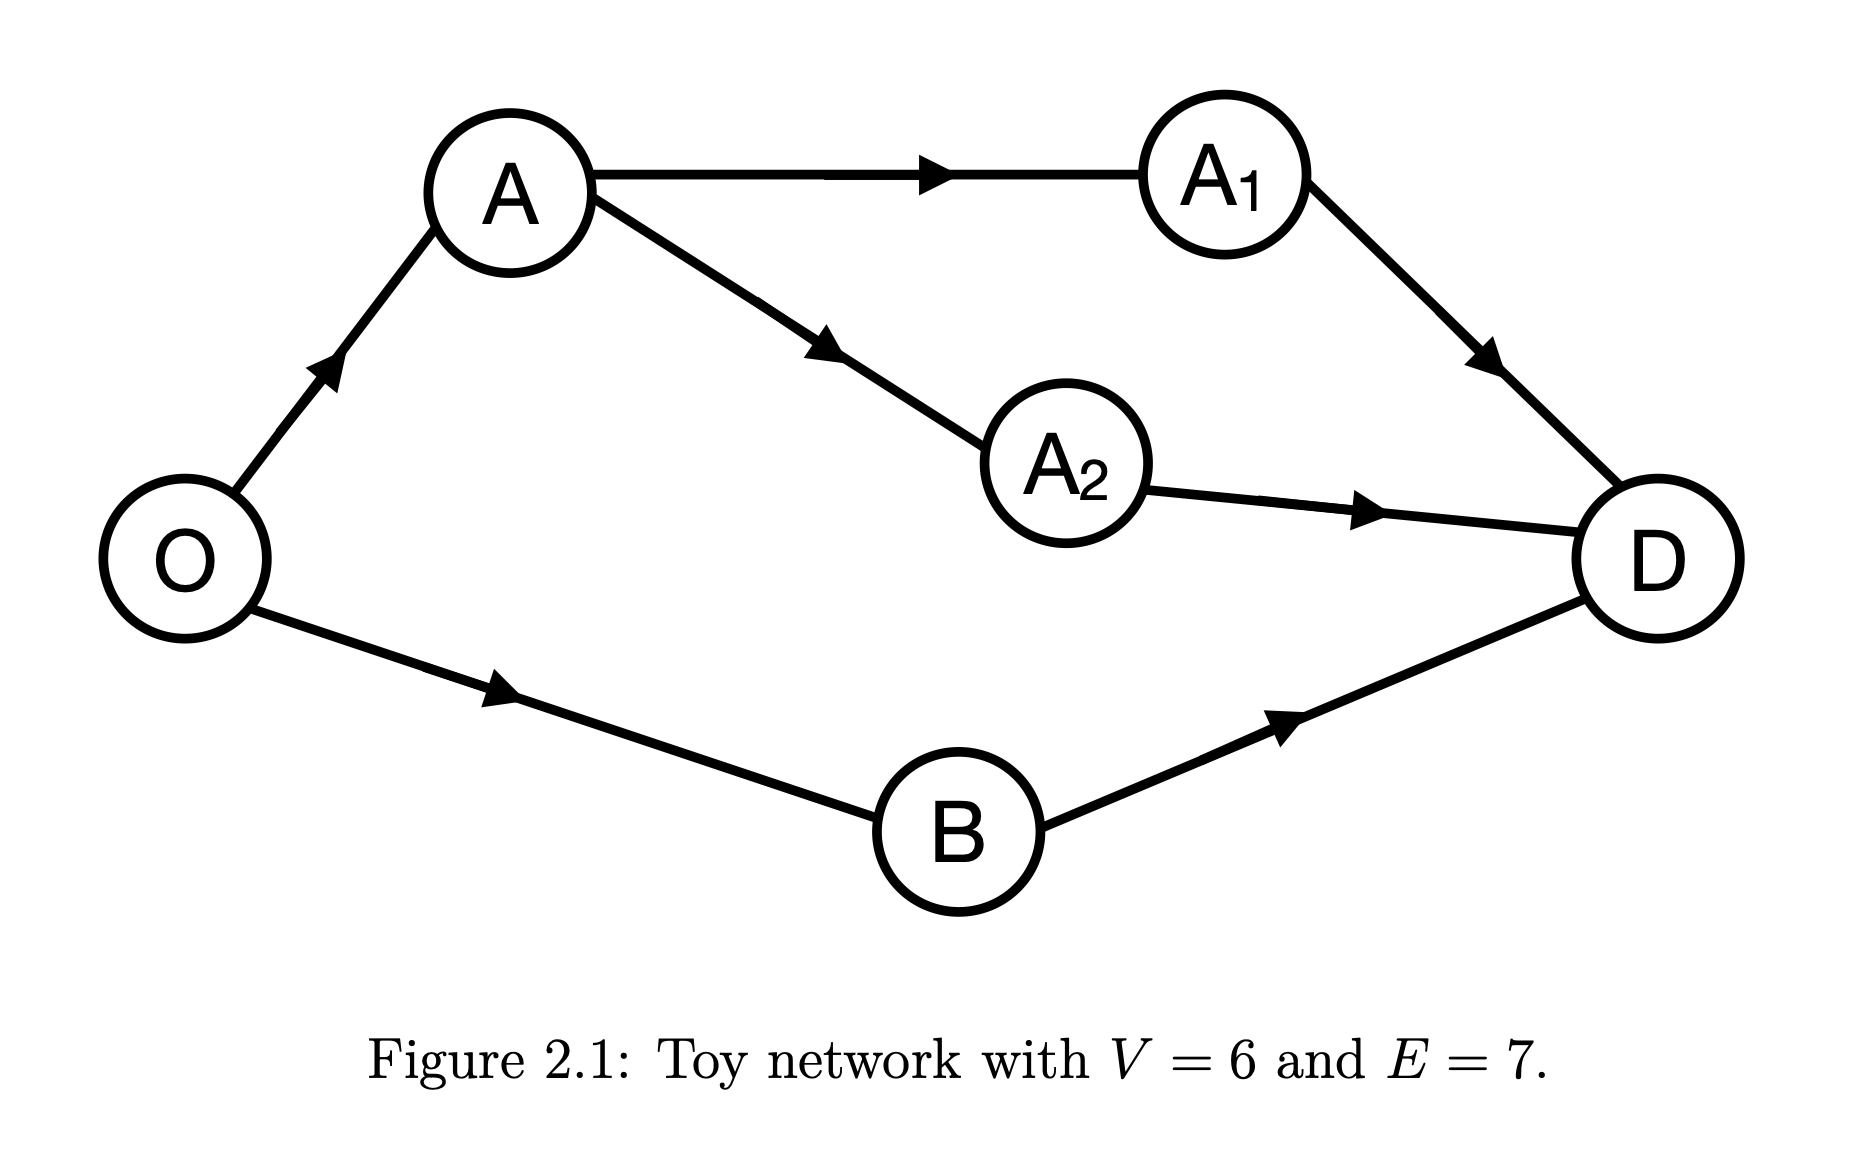
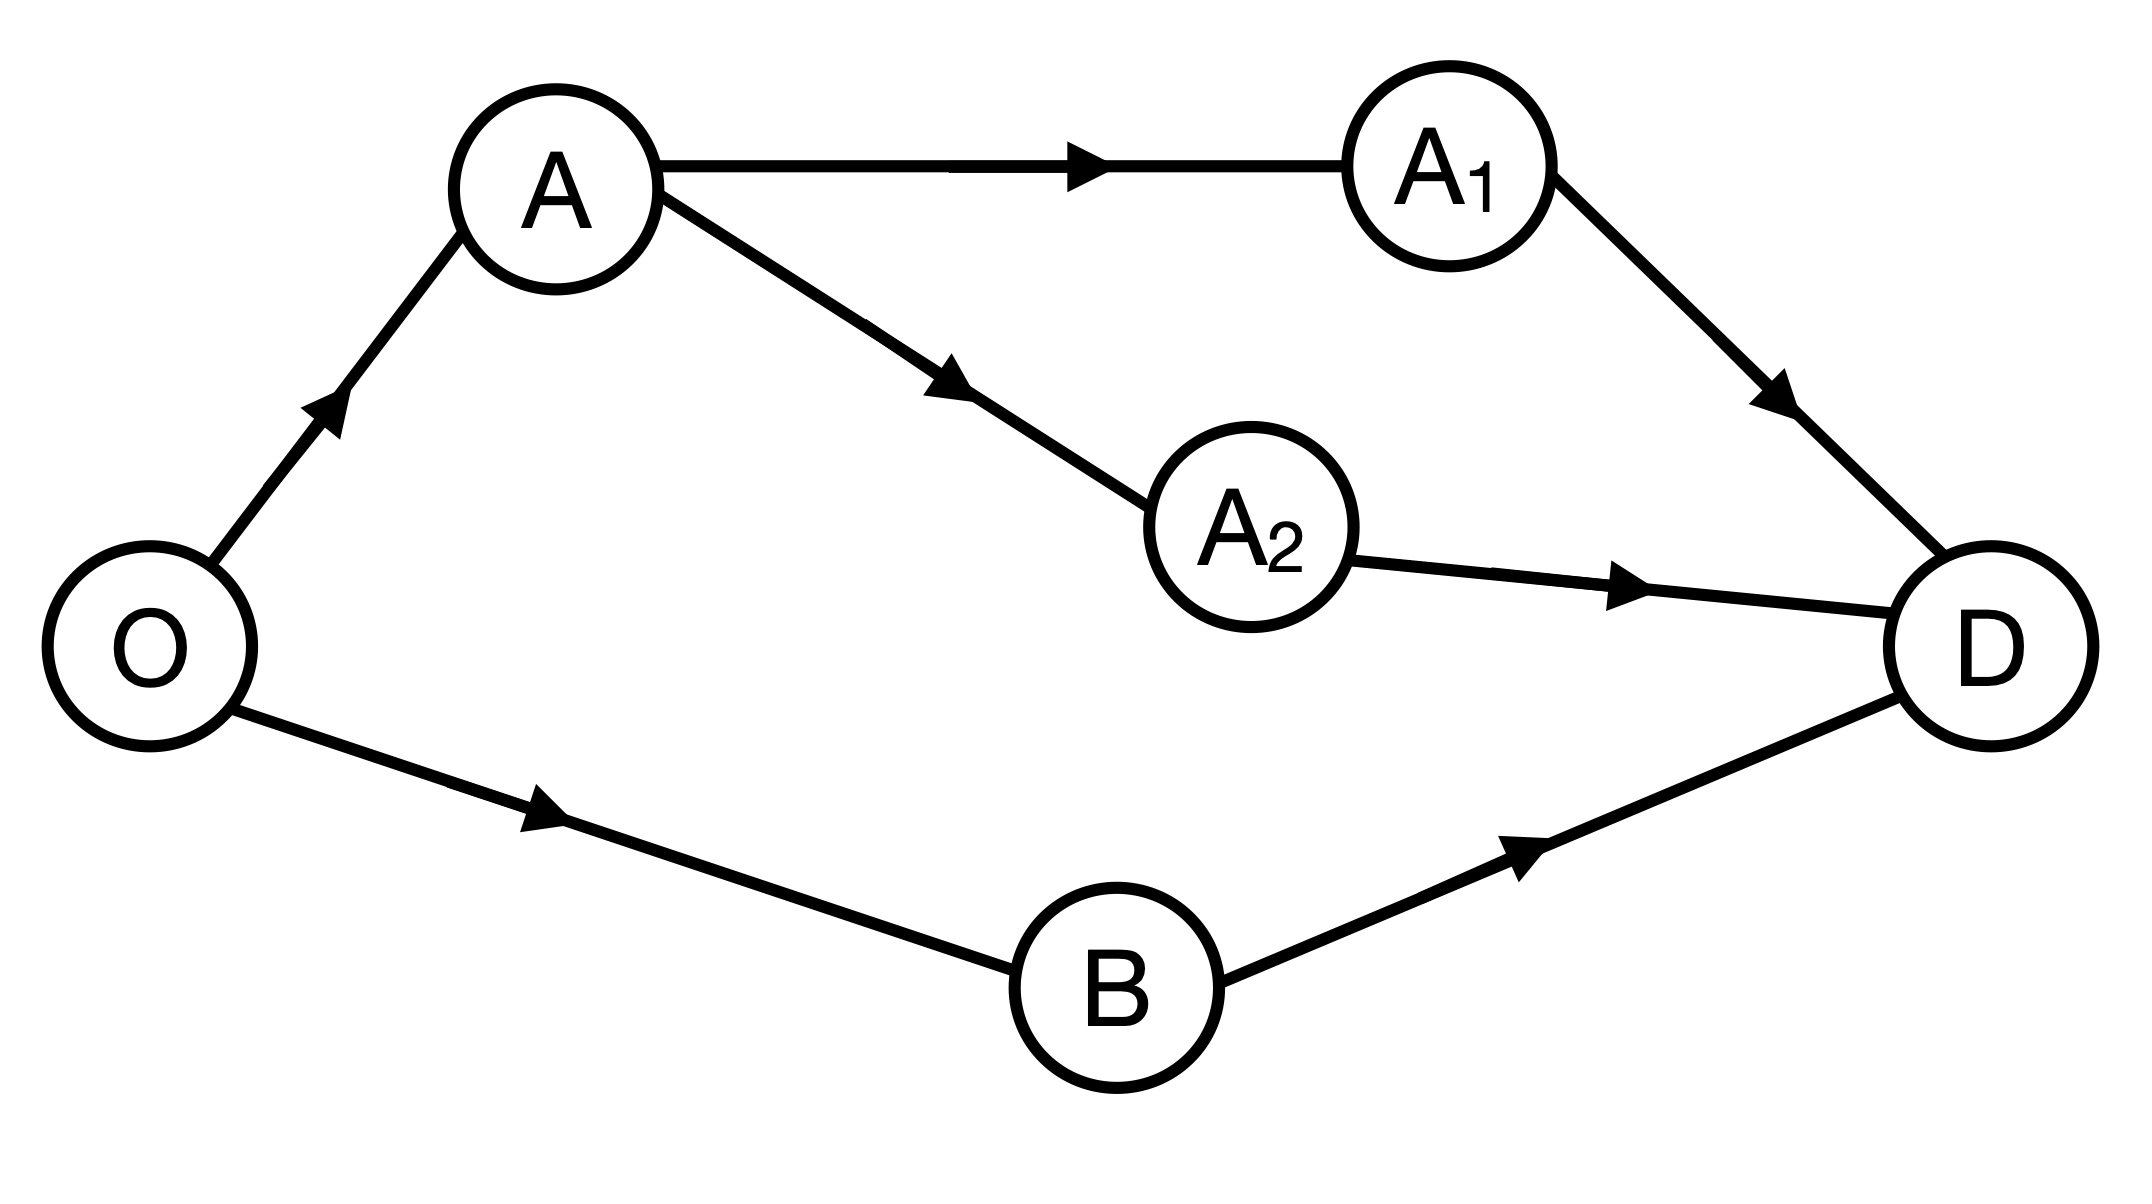
update network reliability detail page: layout, captions, figures

diff --git a/project_related_files/network_reliability.html b/project_related_files/network_reliability.html
@@ -10,7 +10,7 @@
     <title>Network Reliability · Madhurima Nath</title>
     <link rel="icon" type="image/png" href="../tools/favicon-32.png?v=1">
     <link rel="icon" type="image/svg+xml" href="../tools/favicon.svg?v=3">
-    <link rel="stylesheet" href="../style.css?v=42">
+    <link rel="stylesheet" href="../style.css?v=43">
     <script>MathJax = { tex: { inlineMath: [['\\(','\\)']] } };</script>
     <script src="https://cdn.jsdelivr.net/npm/mathjax@3/es5/tex-chtml.js" async></script>
 </head>
@@ -44,41 +44,54 @@
         <!-- Section 1: Computational Frameworks -->
         <section class="proj-section" id="computational">
             <h3>Computational Frameworks for Network Reliability</h3>
-            <div class="theme-content">
-                <div class="theme-text">
-                    <p class="proj-text">A graph dynamical system (GDS) \(\mathcal{G}\) consists of a finite graph with a vertex set \(V\) and an edge set \(E\), together with a vertex function and an update scheme. The vertices represent the components of a system and the edges represent interactions between them. \(\mathcal{G}\) may be directed, weighted, multiplexed, time-dependent, or composed of inhomogeneous nodes. The state of each vertex changes at each time step according to the states of its neighbours. Moore-Shannon network reliability \(R(x;\,\mathcal{G},D,P)\) gives the probability that \(\mathcal{G}\) satisfies a property \(P\) under dynamics \(D\), where \(x\) is the per-edge probability of activation and \(E = |E|\) is the number of edges. If \(P_k\) denotes the fraction of size-\(k\) subgraphs satisfying \(P\), then the probability of selecting a particular subgraph of size \(k\) from all \(E\) edges and having it satisfy \(P\) is \(P_k x^k(1-x)^{E-k}\), and summing over all subgraph sizes gives</p>
 
-                    \[R(x;\,\mathcal{G},D,P) \;=\; \sum_{k=0}^{E} P_k \binom{E}{k} x^k(1-x)^{E-k}.\]
+            <p class="proj-text">A graph dynamical system (GDS) \(\mathcal{G}\) consists of a finite graph with vertex set \(V\) and \(E\) edges, together with a vertex function and an update scheme. The vertices represent the components of a system and the edges represent interactions between them. \(\mathcal{G}\) may be directed, weighted, multiplexed, time-dependent, or composed of inhomogeneous nodes. The state of each vertex changes at each time step according to the states of its neighbours. Moore-Shannon network reliability \(R(x;\,\mathcal{G},D,P)\) gives the probability that \(\mathcal{G}\) satisfies a property \(P\) under dynamics \(D\), where \(x\) is the per-edge probability of activation. If \(P_k\) denotes the fraction of size-\(k\) subgraphs satisfying \(P\), then the probability of selecting a particular subgraph of size \(k\) from all \(E\) edges and having it satisfy \(P\) is \(P_k x^k(1-x)^{E-k}\), and summing over all subgraph sizes gives</p>
 
-                    <p class="proj-text">Evaluating this sum exactly is \(\#P\)-hard in general. \(R\) is a monotonically non-decreasing polynomial of degree \(E\) with \(R(0) = 0\) and \(R(1) = 1\). These properties — monotonicity and the boundary conditions — allow it to be written in the Bernstein basis.</p>
+            \[R(x;\,\mathcal{G},D,P) \;=\; \sum_{k=0}^{E} P_k \binom{E}{k} x^k(1-x)^{E-k}.\]
 
-                    <div class="eq-block">
-                        <p>Any degree-\(E\) polynomial can be written in the Bernstein basis with control points \(\{(k/E,\,\beta_k)\}\):</p>
-                        \[R(x) \;=\; \sum_{k=0}^{E} \beta_k\, B(E,k,x), \qquad B(E,k,x) = \binom{E}{k} x^k(1-x)^{E-k}.\]
-                        <p>The Bernstein coefficients \(\beta_k\) are obtained from the Taylor coefficients \(\alpha_l\) of the expansion around \(x=0\) via</p>
-                        \[\beta_k \;=\; \sum_{l=0}^{k} \alpha_l \binom{E-l}{E-k} \Bigg/ \binom{E}{k}.\]
-                        <p>An analogous transformation applies to the expansion around \(x = 1\). The two Taylor series are combined in the Bernstein basis, which is evaluated stably using de Casteljau's algorithm. As more Taylor coefficients become known, the approximation converges to the exact polynomial.</p>
-                    </div>
+            <p class="proj-text">Evaluating this sum exactly is \(\#P\)-hard in general. \(R\) is a monotonically non-decreasing polynomial of degree \(E\) with \(R(0) = 0\) and \(R(1) = 1\). These properties — monotonicity and the boundary conditions — allow it to be written in the Bernstein basis:</p>
 
-                    <p class="proj-text">For a large class of problems, \(R(x;\,\mathcal{G},D,P)\) can be constructed from the probabilities of certain subgraphs called <em>cruxes</em>. A <em>strut</em> is a subgraph \(g\) of \(\mathcal{G}\) for which \(R(g) > 0\); a <em>cut</em> is a subgraph for which \(R(\mathcal{G} \setminus g) = 0\). A minimal strut (resp. cut) is a strut (resp. cut) with no proper sub-strut (resp. sub-cut). Collectively, minimal struts and cuts are called cruxes. The Taylor series around \(x = 0\) is built from minimal struts; the series around \(x = 1\) from minimal cuts. When cruxes are not known analytically, Monte Carlo sampling identifies them. Two parameters control approximation quality: \(S\) (Monte Carlo samples) and \(D\) (expansion depth). The resulting bounds are provably tight and narrow as \(S\) and \(D\) increase.</p>
+            \[R(x) \;=\; \sum_{k=0}^{E} \beta_k\, B(E,k,x), \qquad B(E,k,x) = \binom{E}{k} x^k(1-x)^{E-k}.\]
 
-                    <p class="proj-text">The figures alongside show a small example graph where \(R(x)\) is known exactly. The dashed red curve is the Bernstein interpolation using Taylor coefficients from both ends — (a) using the first three coefficients from each end and (b) using the first four. In both cases the Bernstein estimate is closer to the exact polynomial than either Taylor series alone.</p>
+            <p class="proj-text">The Bernstein coefficients \(\beta_k\) are obtained from the Taylor coefficients \(\alpha_l\) of the expansion around \(x=0\) via</p>
 
-                    <p class="proj-text">On the Zachary Karate Club network — a social network with 34 vertices and 78 edges — adding a single Bernstein coefficient at \(k = (k_{\min} + k_{\max})/2 = k_{\min} + 9\) to the boundary-only estimate already improves it substantially. Measuring 7 additional \(\beta_k\) values — rather than all 17 unknown ones — gives a good estimate of \(R(x)\), as long as the right 7 values are chosen.</p>
+            \[\beta_k \;=\; \sum_{l=0}^{k} \alpha_l \binom{E-l}{E-k} \Bigg/ \binom{E}{k}.\]
 
-                    <p class="proj-text">Moore-Shannon network reliability is a global statistic which depends on both the dynamics and the structure of a GDS, and is a degree \(N\) polynomial where \(N\) is the system size. The Bernstein basis is a natural basis for the reliability polynomials and is more useful and superior to Taylor expansions for estimating such high-degree polynomials. The Bernstein coefficients \(\beta_k\) can either be evaluated by a simple transformation from the Taylor coefficients or estimated using Monte Carlo simulations. The Bernstein polynomials are not only excellent estimators but also provide tight, provable bounds, and the coefficients are related to the dynamics of the network.</p>
-                </div>
-                <div class="theme-figure">
-                    <img src="../related_files/toy_network.png" alt="Toy network with 6 vertices and 7 edges used to illustrate network reliability" style="cursor:zoom-in;">
-                    <figcaption>Toy network with \(V = 6\) and \(E = 7\).</figcaption>
-                    <img src="../related_files/bernstein_a.png" alt="Estimated R(x) using first three Taylor coefficients from both x=0 and x=1 ends, showing Bernstein interpolation (dashed red) against exact polynomial (black) and Taylor bounds" style="margin-top: 18px; cursor:zoom-in;">
-                    <figcaption>(a) Three Taylor coefficients from each end.</figcaption>
-                    <img src="../related_files/bernstein_b.png" alt="Estimated R(x) using first four Taylor coefficients from both x=0 and x=1 ends, showing closer Bernstein interpolation (dashed red) to the exact polynomial (black)" style="margin-top: 18px; cursor:zoom-in;">
-                    <figcaption>(b) Four Taylor coefficients from each end.</figcaption>
-                    <img src="../related_files/bernstein_karate.png" alt="Plots of beta_k and R(x) as a function of x for the Karate Club network, showing the exact R(x) (black), estimated R(x) (red dashed), and the improvement from adding one additional Bernstein coefficient at the midpoint" style="margin-top: 18px; cursor:zoom-in;">
-                    <figcaption>Plots of \(\beta_k\) and \(R(x)\) as a function of \(x\). The black solid line is the exact \(R(x)\). The red curve is estimated \(R(x)\) using just 1 additional \((k,\beta_k)\) at \(k = (k_{\min}+k_{\max})/2 = k_{\min}+9\).</figcaption>
-                </div>
+            <p class="proj-text">An analogous transformation applies around \(x = 1\). The strut/cut duality is built into the Bernstein basis through</p>
+
+            \[B(E,k,x) \;=\; B(E,\,E-k,\,1-x),\]
+
+            <p class="proj-text">which means the coefficients from the \(x = 0\) expansion are exactly the reverse of those from \(x = 1\). The two Taylor series are combined in the Bernstein basis and evaluated stably using de Casteljau's algorithm. As more coefficients become known, the approximation converges to the exact polynomial.</p>
+
+            <p class="proj-text">The reliability polynomial can often be built from the probabilities of two special types of subgraphs. A <em>strut</em> is a subgraph for which the property \(P\) holds; a <em>cut</em> is a subgraph whose removal makes \(P\) impossible. The smallest struts and cuts — those with no redundant edges — are called <em>cruxes</em>. Expanding \(R(x)\) around \(x = 0\) uses struts; expanding around \(x = 1\) uses cuts. When cruxes are not known analytically, Monte Carlo sampling identifies them, and the resulting bounds are provably tight.</p>
+
+            <figure style="margin:20px auto; max-width:480px; text-align:center;">
+                <img src="../related_files/toy_network.png" alt="Toy network with 6 vertices and 7 edges used to illustrate network reliability" style="width:100%; border-radius:6px; cursor:zoom-in;" class="inline-zoomable">
+                <figcaption>Toy network with \(V = 6\) and \(E = 7\).</figcaption>
+            </figure>
+
+            <p class="proj-text">The figures below show \(R(x)\) for the toy network above, where the exact polynomial is known. The dashed red curve is the Bernstein estimate using Taylor coefficients from both ends — (a) three coefficients from each boundary, (b) four. In both cases the Bernstein estimate is closer to the exact polynomial than either Taylor series alone.</p>
+
+            <div style="display:flex; gap:12px; margin:16px 0 4px; align-items:stretch;">
+                <figure style="flex:1; margin:0; display:flex; flex-direction:column;">
+                    <img src="../related_files/bernstein_a.png" alt="Bernstein estimate of R(x) using three Taylor coefficients from each boundary" style="width:100%; border-radius:6px; cursor:zoom-in; flex:1; object-fit:contain;" class="inline-zoomable">
+                    <figcaption>(a) Three coefficients from each boundary.</figcaption>
+                </figure>
+                <figure style="flex:1; margin:0; display:flex; flex-direction:column;">
+                    <img src="../related_files/bernstein_b.png" alt="Bernstein estimate of R(x) using four Taylor coefficients from each boundary" style="width:100%; border-radius:6px; cursor:zoom-in; flex:1; object-fit:contain;" class="inline-zoomable">
+                    <figcaption>(b) Four coefficients from each boundary.</figcaption>
+                </figure>
             </div>
+
+            <p class="proj-text">On the Zachary Karate Club network — 34 vertices, 78 edges — adding a single additional \(\beta_k\) at the midpoint already improves the boundary-only estimate substantially. Measuring 7 additional \(\beta_k\) values — rather than all 17 unknown ones — gives a good estimate of \(R(x)\), as long as the right 7 values are chosen.</p>
+
+            <div style="display:flex; gap:12px; margin:16px 0 4px;">
+                <img src="../related_files/bernstein_karate_1.png" alt="Bernstein bounds and R(x) for the Karate Club network" style="flex:1; width:0; min-width:0; border-radius:6px; cursor:zoom-in;" class="inline-zoomable">
+                <img src="../related_files/bernstein_karate_2.png" alt="Bernstein bounds and R(x) for the Karate Club network after adding one additional pair (k, beta_k)" style="flex:1; width:0; min-width:0; border-radius:6px; cursor:zoom-in;" class="inline-zoomable">
+            </div>
+            <figcaption>Both bounds and \(R(x)\) improve with the knowledge of one additional pair \((k,\beta_k)\).</figcaption>
+
+            <p class="proj-text">Moore-Shannon network reliability is a global statistic which depends on both the dynamics and the structure of a GDS, and is a degree-\(E\) polynomial. The Bernstein basis is a natural basis for the reliability polynomials and is more useful and superior to Taylor expansions for estimating such high-degree polynomials. The Bernstein coefficients \(\beta_k\) can either be evaluated by a simple transformation from the Taylor coefficients or estimated using Monte Carlo simulations. The Bernstein polynomials are not only excellent estimators but also provide tight, provable bounds, and the coefficients are related to the dynamics of the network.</p>
         </section>
 
         <!-- Section 2: Ising Model -->
@@ -98,7 +111,7 @@
 
                     \[\lambda_{1,2} = e^{\beta J}\cosh(\beta\mu B) \pm \bigl\{e^{-2\beta J} + e^{2\beta J}\sinh^2(\beta\mu B)\bigr\}^{1/2}.\]
 
-                    <p class="proj-text">Standard Monte Carlo methods converge poorly near critical points, and existing approaches to the density of states do not extend naturally to systems with an external field. The connection to network reliability comes from reparametrising the Hamiltonian in terms of two integer-valued quantities: \(s\), the number of spin-up sites, and \(f\), the number of frustrated edges (edges between sites with opposite spins). Then \(H_N = Jf - J(N-f) - \mu Bs + \mu B(N-s)\) and the partition function becomes</p>
+                    <p class="proj-text">Existing series expansion and density-of-states methods do not extend naturally to systems with an external field — in the presence of a field, the series requires two expansion parameters instead of one. The connection to network reliability comes from reparametrising the Hamiltonian in terms of two integer-valued quantities: \(s\), the number of spin-up sites, and \(f\), the number of frustrated edges (edges between sites with opposite spins). Then \(H_N = Jf - J(N-f) - \mu Bs + \mu B(N-s)\) and the partition function becomes</p>
 
                     \[Z_N^{\mathrm{rel}} = \sum_{s,f} n_N(s,f)\exp\bigl[-\beta\{Jf - J(N-f) - \mu Bs + \mu B(N-s)\}\bigr],\]
 
@@ -108,7 +121,7 @@
 
                     \[Z_N^{\mathrm{rel}} = x^{-\eta}\sum_{k=0}^{M}\beta_k\,B(M,k,x),\]
 
-                    <p class="proj-text">where \(x\to 0\) as \(T\to 0\) (low temperature) and \(x\to 1\) as \(T\to\infty\) (high temperature). The Bernstein framework then interpolates between the low- and high-temperature series expansions of \(Z_N\).</p>
+                    <p class="proj-text">where \(x\to 0\) as \(T\to 0\) (low temperature) and \(x\to 1\) as \(T\to\infty\) (high temperature). The Bernstein framework then interpolates between the low- and high-temperature series expansions of \(Z_N\). The same approach extends beyond 1D: for a 4×4 square lattice (\(N=16\)), the Bernstein estimate closely matches the exact partition function using only a small number of Taylor coefficients from each end.</p>
                 </div>
                 <div class="theme-figure">
                     <img src="../related_files/ising_feasible.png" alt="Two grid diagrams showing Ising-feasible and not Ising-feasible spin configurations, with spin-up sites as filled circles and frustrated edges in red" style="cursor:zoom-in;">
@@ -159,7 +172,7 @@ document.querySelectorAll(".js-year").forEach(function(el){ el.textContent = new
 (function(){
     var lb = document.getElementById('imgLightbox');
     var lbImg = lb.querySelector('img');
-    document.querySelectorAll('.theme-figure img').forEach(function(img){
+    document.querySelectorAll('.theme-figure img, .inline-zoomable, .proj-section figure img').forEach(function(img){
         img.addEventListener('click', function(){
             lbImg.src = img.src;
             lbImg.alt = img.alt;

diff --git a/style.css b/style.css
@@ -2096,11 +2096,13 @@ tr:nth-child(even) {
 	border-bottom: 1px solid var(--border);
 }
 
-.theme-figure figcaption {
-	font-size: 0.7rem;
-	color: #5a6d7e;
+.theme-figure figcaption,
+.proj-section figcaption {
+	font-family: var(--font-mono-body);
+	font-size: 13px;
+	color: var(--text-meta);
 	text-align: center;
-	padding: 4px 0 0;
+	padding: 4px 0 8px;
 	font-style: italic;
 	line-height: 1.4;
 }

diff --git a/projects.html b/projects.html
@@ -11,7 +11,7 @@
     <title>Projects · Madhurima Nath</title>
     <link rel="icon" type="image/png" href="tools/favicon-32.png?v=1">
     <link rel="icon" type="image/svg+xml" href="tools/favicon.svg?v=3">
-    <link rel="stylesheet" href="style.css?v=42">
+    <link rel="stylesheet" href="style.css?v=43">
 </head>
 
 <body>
@@ -73,7 +73,7 @@
                 </div>
             </a>
 
-            <a href="project_related_files/epidemic_trade.html" class="proj-card" target="_blank" rel="noopener">
+            <a href="project_related_files/epidemic_trade.html" class="proj-card">
                 <div class="proj-card-img">
                     <img src="related_files/food_trade_map.png" alt="Global food trade contagion clusters">
                 </div>
@@ -89,9 +89,9 @@
                 </div>
             </a>
 
-            <a href="project_related_files/network_reliability.html" class="proj-card" target="_blank" rel="noopener">
+            <a href="project_related_files/network_reliability.html" class="proj-card">
                 <div class="proj-card-img">
-                    <img src="related_files/bernstein_estimation.png" alt="Bernstein polynomial interpolation of network reliability">
+                    <img src="related_files/bernstein_b.png" alt="Bernstein polynomial interpolation of network reliability">
                 </div>
                 <div class="proj-card-body">
                     <h3 class="proj-card-title">Network Reliability: Theory &amp; Computation</h3>

diff --git a/project_related_files/epidemic_trade.html b/project_related_files/epidemic_trade.html
@@ -10,7 +10,7 @@
     <title>Epidemic &amp; Trade Networks · Madhurima Nath</title>
     <link rel="icon" type="image/png" href="../tools/favicon-32.png?v=1">
     <link rel="icon" type="image/svg+xml" href="../tools/favicon.svg?v=3">
-    <link rel="stylesheet" href="../style.css?v=42">
+    <link rel="stylesheet" href="../style.css?v=43">
     <script>MathJax = { tex: { inlineMath: [['\\(','\\)']] } };</script>
     <script src="https://cdn.jsdelivr.net/npm/mathjax@3/es5/tex-chtml.js" async></script>
 </head>